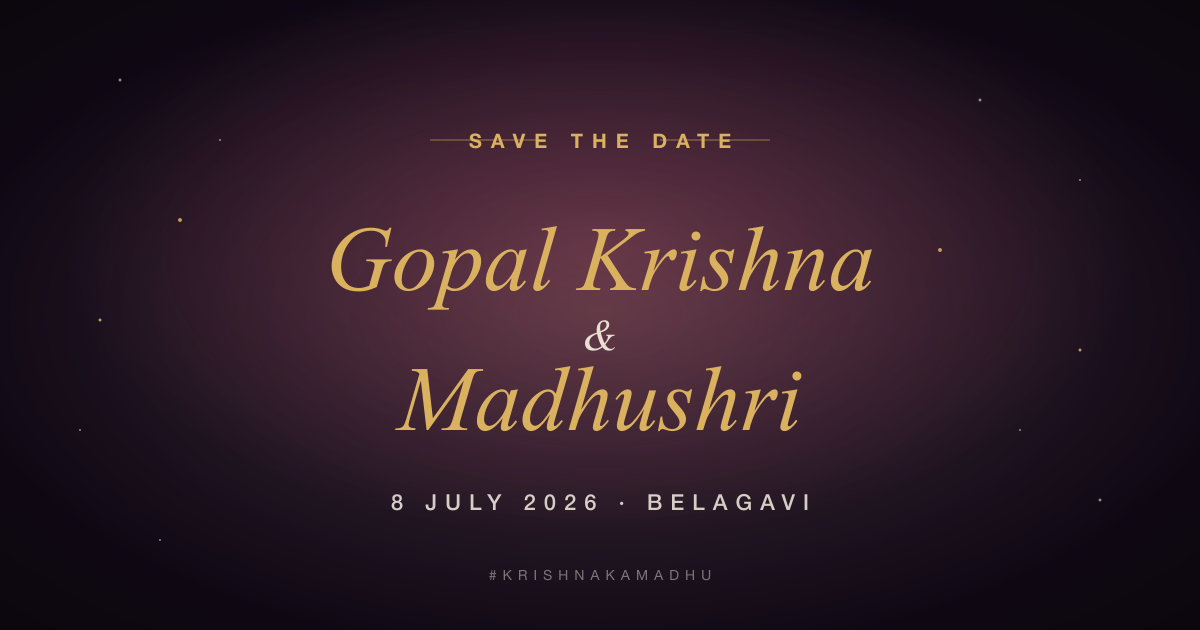
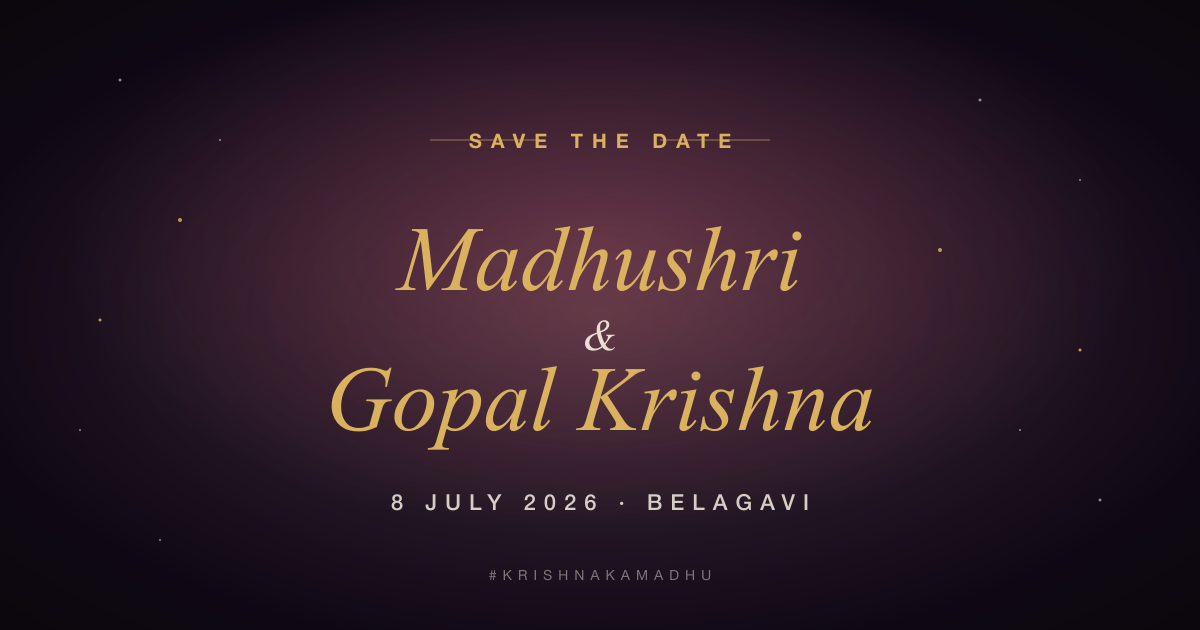
update svg and order of names

Changed region(s): [[0.2775, 0.573, 0.74, 0.7238], [0.2775, 0.3619, 0.74, 0.5127]]

diff --git a/app/layout.tsx b/app/layout.tsx
@@ -6,14 +6,14 @@ const SITE_URL = 'https://gk100799.github.io/wedding-invitation';
 
 export const metadata: Metadata = {
   metadataBase: new URL(SITE_URL),
-  title: `${couple.groom.name} + ${couple.bride.name} · ${wedding.shortDate}`,
+  title: `${couple.bride.name} + ${couple.groom.name} · ${wedding.shortDate}`,
   description: `Save the date — ${wedding.date}, ${wedding.city}. ${wedding.hashtag}`,
   icons: {
     icon: [{ url: `${SITE_URL}/favicon.svg`, type: 'image/svg+xml' }],
     apple: `${SITE_URL}/favicon.svg`,
   },
   openGraph: {
-    title: `${couple.groom.name} weds ${couple.bride.name}`,
+    title: `${couple.bride.name} Weds ${couple.groom.name}`,
     description: `${wedding.date} · ${wedding.city} · ${wedding.hashtag}`,
     type: 'website',
     url: SITE_URL,
@@ -22,13 +22,13 @@ export const metadata: Metadata = {
         url: `${SITE_URL}/og-image.png`,
         width: 1200,
         height: 630,
-        alt: `${couple.groom.name} & ${couple.bride.name} — ${wedding.date}, ${wedding.city}`,
+        alt: `${couple.bride.name} & ${couple.groom.name} — ${wedding.date}, ${wedding.city}`,
       },
     ],
   },
   twitter: {
     card: 'summary_large_image',
-    title: `${couple.groom.name} weds ${couple.bride.name}`,
+    title: `${couple.bride.name} Weds ${couple.groom.name}`,
     description: `${wedding.date} · ${wedding.city}`,
     images: [`${SITE_URL}/og-image.png`],
   },
